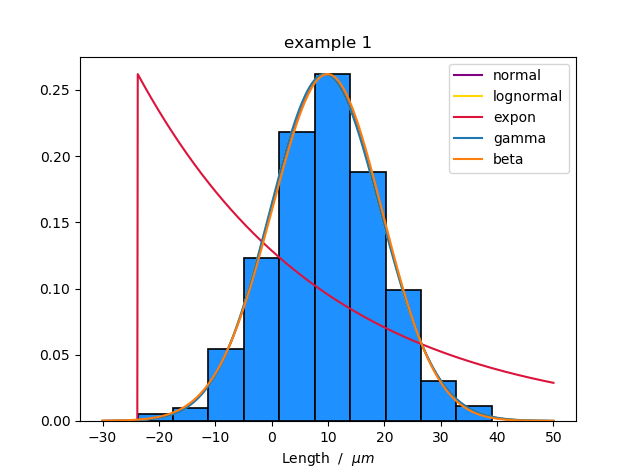
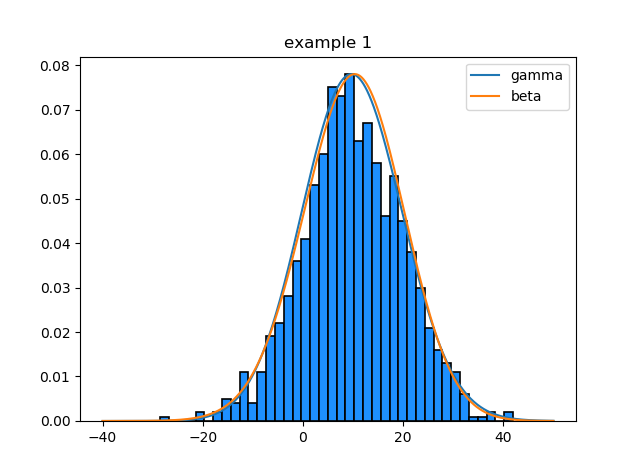
modif interface to perform fits of more than one file at a time (batch calculations)

diff --git a/pdsfit.py b/pdsfit.py
@@ -6,7 +6,7 @@ Created on Wed Sep 12 17:43:08 2018
 """
 
 ''' 
-pdsfit.py - A PROBABILITY DENSITY (PD) FITTING SCRIPT
+pdsfit.py - A PROBABILITY DENSITY FUNCTION (PDF) FITTING SCRIPT
 Andrew Garcia*
 
 *adapted from Daniel Hnyk's python code:
@@ -17,6 +17,7 @@ from scipy import stats
 import numpy as np  
 import matplotlib.pylab as plt
 import xlwings as xw
+import pandas as pd
 
 '''lastRow credit: answered Sep 14 '16 at 11:39  -  Stefan 
 https://stackoverflow.com/questions/33418119/xlwings-function-to-find-the-last-row-with-data'''
@@ -49,7 +50,7 @@ def make(data,name,pds=['gauss','lognorm','expon','gamma','beta'],xlims=''):
     'plot density histogram'
     wts = np.ones_like(data) / float(len(data))
     
-    n, bins, patches = plt.hist(data,stacked =True, weights=wts,\
+    n, bins, patches = plt.hist(data,bins=40,stacked =True, weights=wts,\
                                 color='dodgerblue',edgecolor='k',linewidth=1.2)
 
     
@@ -65,6 +66,14 @@ def make(data,name,pds=['gauss','lognorm','expon','gamma','beta'],xlims=''):
     'to scale normalized bins with fits'
 #    max_normbins = np.max(hist(data, stacked =True, weights=wts)[0])
     max_normbins = np.max(n)
+
+    'save stats -- labels and values'
+    stats_lbl = []
+    stats_val = []
+    stats_lbl.append('sample_name')
+    stats_val.append(name)
+    stats_lbl.append('sample_size')
+    stats_val.append(size(data))
 
     
     '''*NORMAL DISTRIBUTION (GAUSSIAN)'''
@@ -87,6 +96,11 @@ def make(data,name,pds=['gauss','lognorm','expon','gamma','beta'],xlims=''):
         print('\n normal: \n \
               mean sdev \n \
               {} {}'.format(np.round(m,2),np.round(s,2)))
+        
+        stats_lbl.append('normal_mean'), stats_val.append(m)
+        stats_lbl.append('normal_sdev'), stats_val.append(s)
+
+
 #        print('normal: ' ,'mean', np.round(m,2),'std_dev', np.round(s,2))
     
     '''*LOGNORMAL DISTRIBUTION'''
@@ -114,7 +128,12 @@ def make(data,name,pds=['gauss','lognorm','expon','gamma','beta'],xlims=''):
               s loc scale mean median \n \
               {} {} {} {} {} \n'.format(np.round(s,2),np.round(loc,2), np.round(scale,2),mean,median))
 
-        
+        stats_lbl.append('lognorm_s'), stats_val.append(s)
+        stats_lbl.append('lognorm_loc'), stats_val.append(loc)
+        stats_lbl.append('lognorm_scale'), stats_val.append(scale)
+        stats_lbl.append('lognorm_mean'), stats_val.append(mean)
+        stats_lbl.append('lognorm_median'), stats_val.append(median)
+
 #        print('\n lognormal: \n s {} loc {} scale {} \
 #              \n mean = {} \n median = {} \n mode = {} \
 #              \n '.format(np.round(s,2),np.round(loc,2), np.round(scale,2),mean,median,mode))
@@ -131,6 +150,8 @@ def make(data,name,pds=['gauss','lognorm','expon','gamma','beta'],xlims=''):
         print('\n exponential: \n loc {} scale {} \
               \n '.format(loc,scale))
         
+        stats_lbl.append('expon_loc'), stats_val.append(loc)
+        stats_lbl.append('expon_scale'), stats_val.append(scale)
         
         
     '''*GAMMA DISTRIBUTION'''
@@ -145,6 +166,10 @@ def make(data,name,pds=['gauss','lognorm','expon','gamma','beta'],xlims=''):
         plt.plot(lspc, pdf_gamma,label="gamma")
         print('Gamma: ' ,'aG', np.round(ag,2),'bG', np.round(bg,2),\
               'cG', np.round(cg,2))
+        
+        stats_lbl.append('gamma_a'), stats_val.append(ag)
+        stats_lbl.append('gamma_b'), stats_val.append(bg)
+        stats_lbl.append('gamma_c'), stats_val.append(cg)
 
     
     '''*BETA DISTRIBUTION'''
@@ -161,28 +186,58 @@ def make(data,name,pds=['gauss','lognorm','expon','gamma','beta'],xlims=''):
         print('Beta: ' ,'aB', np.round(ab,2),'bB', np.round(bb,2),\
               'cB', np.round(cb,2),'dB', np.round(db,2))
         print()
+        
+        stats_lbl.append('beta_a'), stats_val.append(ab)
+        stats_lbl.append('beta_b'), stats_val.append(bb)
+        stats_lbl.append('beta_c'), stats_val.append(cb)
+        stats_lbl.append('beta_d'), stats_val.append(db)
+
 
     plt.title(name)
     plt.legend()
     
+    return stats_lbl, stats_val
+
+
+
+'''    EXECUTION   '''
 
 '''MAKE YOUR OWN DATABASE
 *you may use my database template XRD_database_template.py
 at https://github.com/andrewrgarcia/xrd'''
-from dist_database import excelbook
-'book, label = excelbook(tool,expt)'
+from dist_database import excelbook, mysamples
+def batch():
+    
+    Gval = []
+    samples = mysamples()
 
-#idx = 'Results'
-#diam =   book.sheets[idx].range( 'I2:I'+str(lastRow(idx,book)) ).value 
-#feret =   book.sheets[idx].range( 'D2:D'+str(lastRow(idx,book)) ).value 
-#minferet =   book.sheets[idx].range( 'H2:H'+str(lastRow(idx,book)) ).value     
-#
-#make(diam,label+' (Diameter)',pds=['gauss','lognorm'])
-#make(diam,label+' (Diameter)')
+    for i in samples:
+        book, label = excelbook('SEM',i)
+        idx = 'Results'
+        diam =   book.sheets[idx].range( 'I2:I'+str(lastRow(idx,book)) ).value 
+#        feret =   book.sheets[idx].range( 'D2:D'+str(lastRow(idx,book)) ).value 
+#        minferet =   book.sheets[idx].range( 'H2:H'+str(lastRow(idx,book)) ).value    
+        lbl,val = make(diam,label+' (Diameter)')
+        book.close()
 
-#book.close()
+        Gval.append(val)
 
-'''------------------------------------------------------------------------'''
+        
+    df = pd.DataFrame(Gval, columns=lbl)
+    print(df)
+    
+    'write to excel'
+    wb = xw.Book()
+    sht = wb.sheets['Sheet1']
+    sht.range('A1').value = df
+    sht.range('A1').options(pd.DataFrame, expand='table').value
+
+#batch()
+
+'''------------------------------------------------------------------------------------'''
+
+
+
 
 
 '''EXAMPLES'''
@@ -190,10 +245,11 @@ ex1 = np.random.normal(10, 10, 1000)
 ex2 = 2*np.random.uniform(1,40, 1000) + np.random.normal(10, 10, 1000)
 ex3 = 3*np.random.exponential(4,1000)
 
-make(ex1,'example 1')
-make(ex2,'example 2')
+make(ex1,'example 1',['gamma','beta'])
+make(ex2,'example 2',['gauss'])
 make(ex3,'example 3')
-'''------------------------------------------------------------------------'''
+
+'''------------------------------------------------------------------------------------'''
 
 
 
